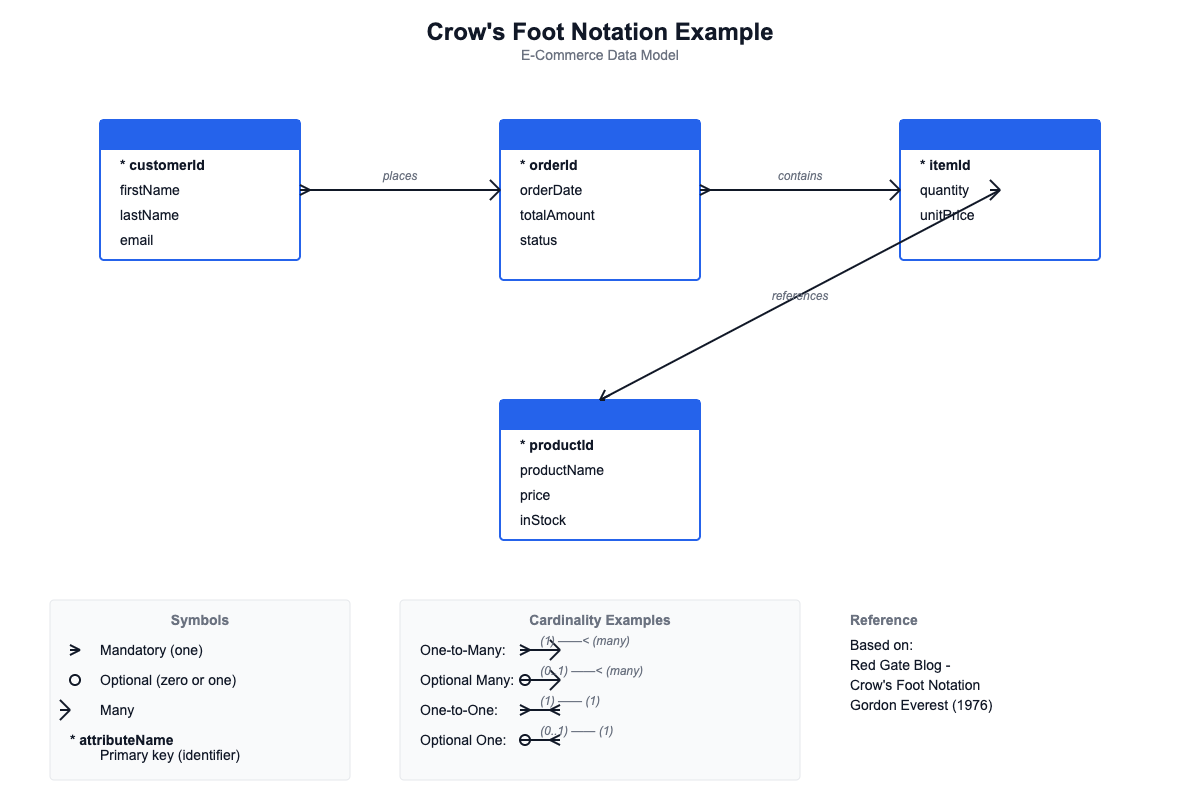
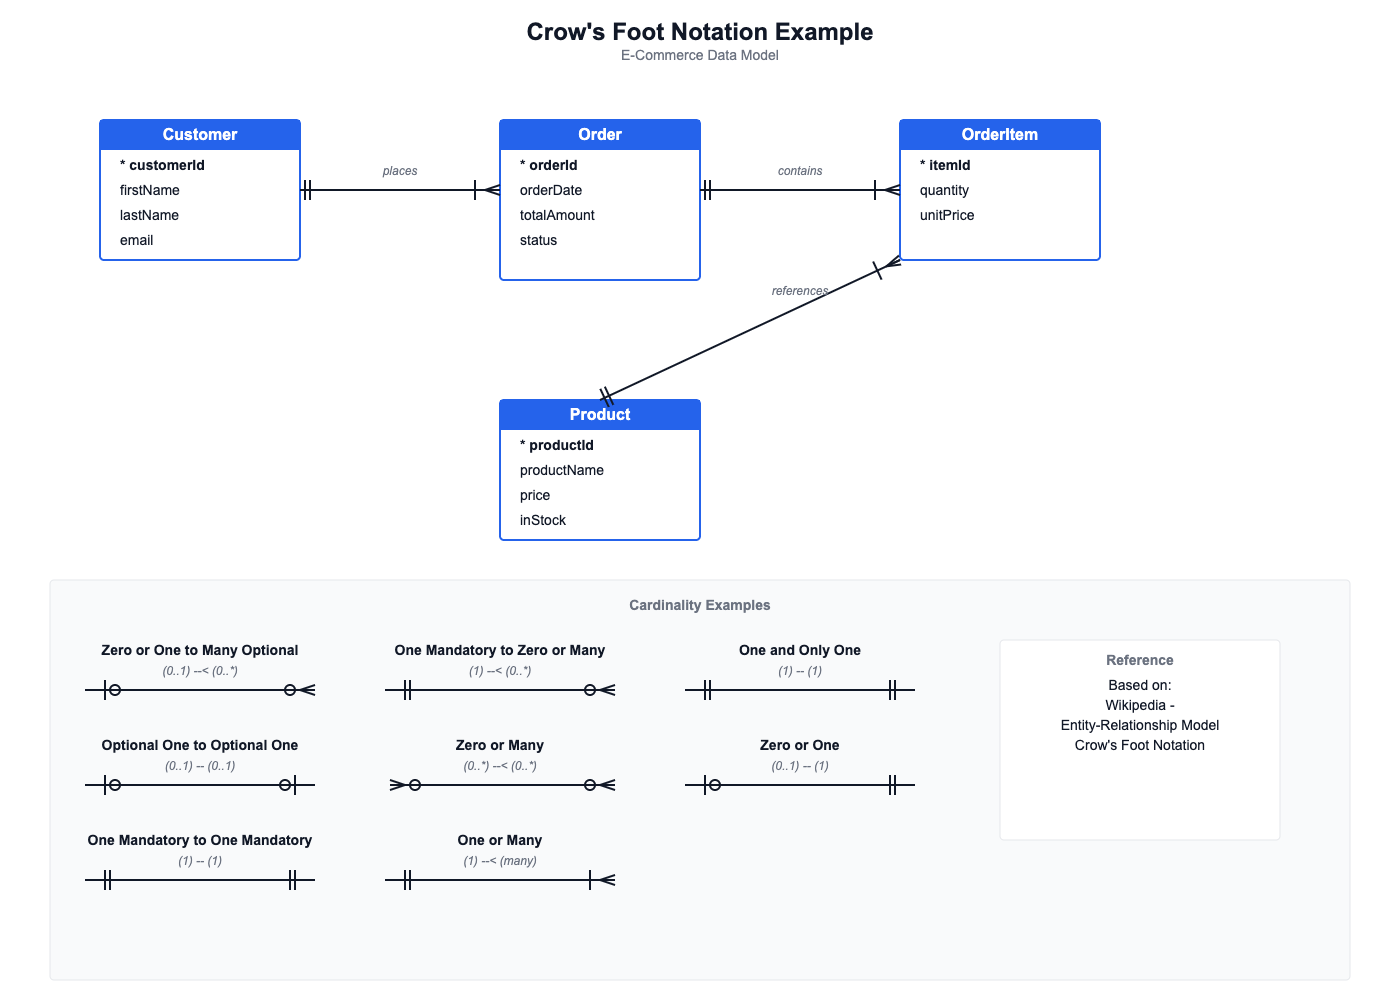
Fix Crow's Foot notation diagram and update API documentation
- Fix perpendicular lines on Product→OrderItem relationship (references)
- Update perpendicular line angles to be properly 90° to relationship lines
- Adjust spacing to match One or Many example pattern
- Add crates.io installation instructions and version v1.0.1 to API documentation
- Regenerate PNG diagram with corrected notation

diff --git a/hugo-site/content/products/api/_index.md b/hugo-site/content/products/api/_index.md
@@ -63,6 +63,20 @@ cloud-based data management systems.
 - `POST /api/v1/schemas` - Create a schema
 - `GET /api/v1/schemas/{id}` - Get schema details
 
+## Installation
+
+The API is available on [crates.io](https://crates.io/crates/data-modelling-api) for Rust projects:
+
+```bash
+# Add to your Cargo.toml
+cargo add data-modelling-api
+
+# Or specify version
+cargo add data-modelling-api@1.0.1
+```
+
+**Current Version**: v1.0.1
+
 ## Getting Started
 
 ### Authentication
@@ -99,9 +113,10 @@ curl -X POST https://api.opendatamodelling.com/v1/contracts \
 ## Documentation
 
 For complete API documentation, including all endpoints, request/response formats, and
-authentication details, visit the GitHub repository:
+authentication details:
 
-**[Data Modelling API on GitHub →](https://github.com/pixie79/data-modelling-api){:target="_blank" rel="noopener noreferrer"}**
+- **[Data Modelling API on GitHub →](https://github.com/pixie79/data-modelling-api){:target="_blank" rel="noopener noreferrer"}**
+- **[Data Modelling API on crates.io →](https://crates.io/crates/data-modelling-api){:target="_blank" rel="noopener noreferrer"}** (v1.0.1)
 
 ## Screenshot
 
